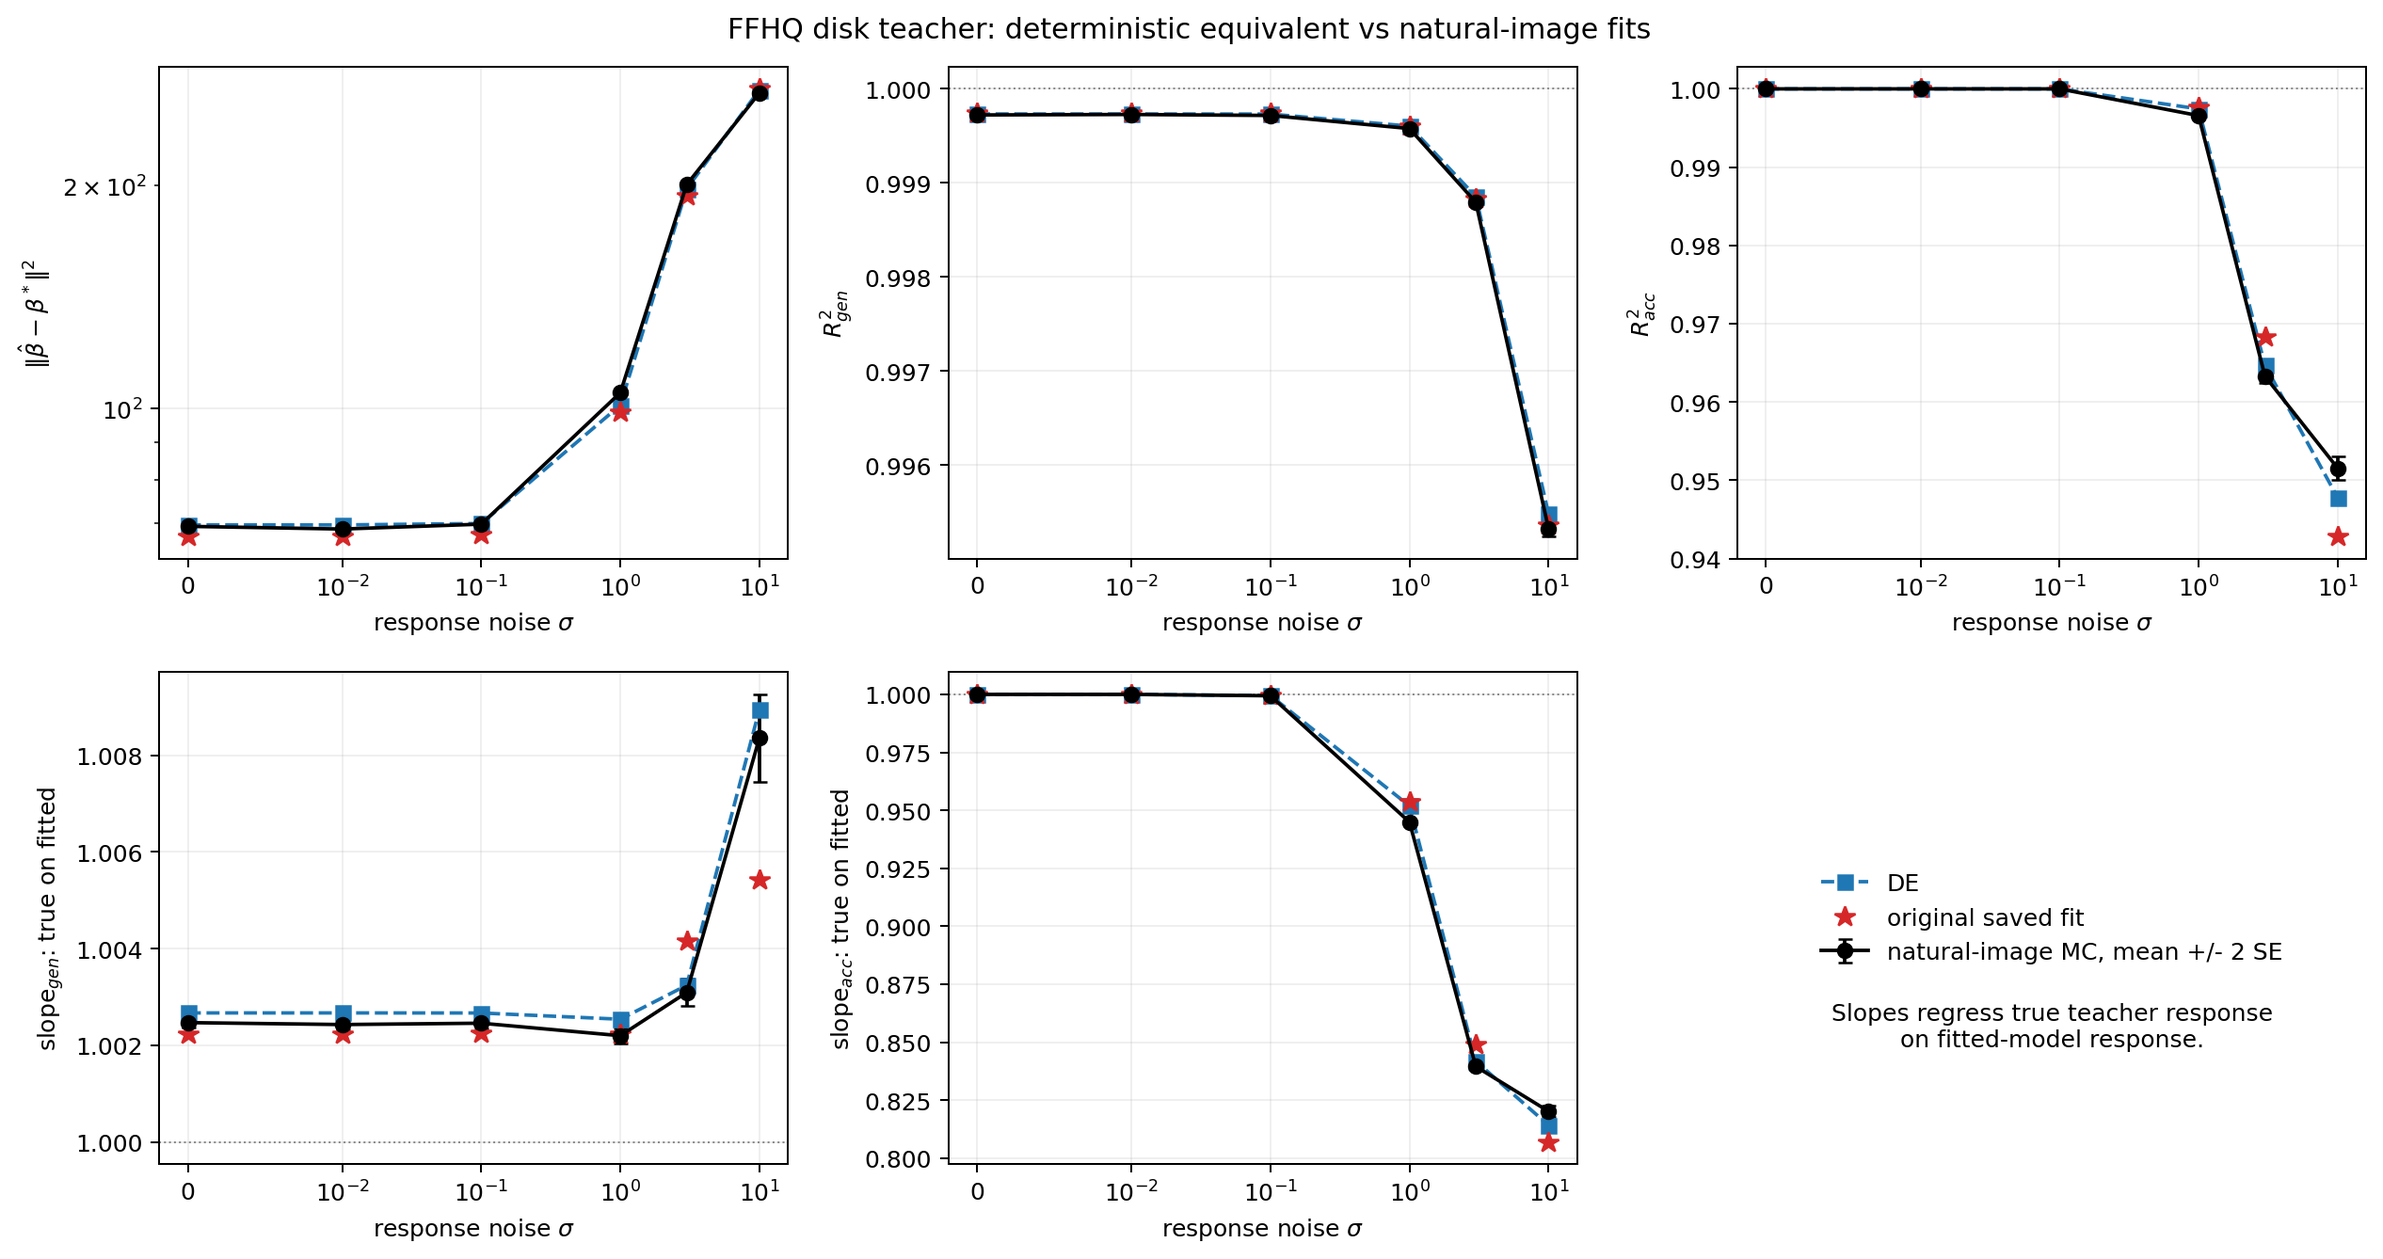
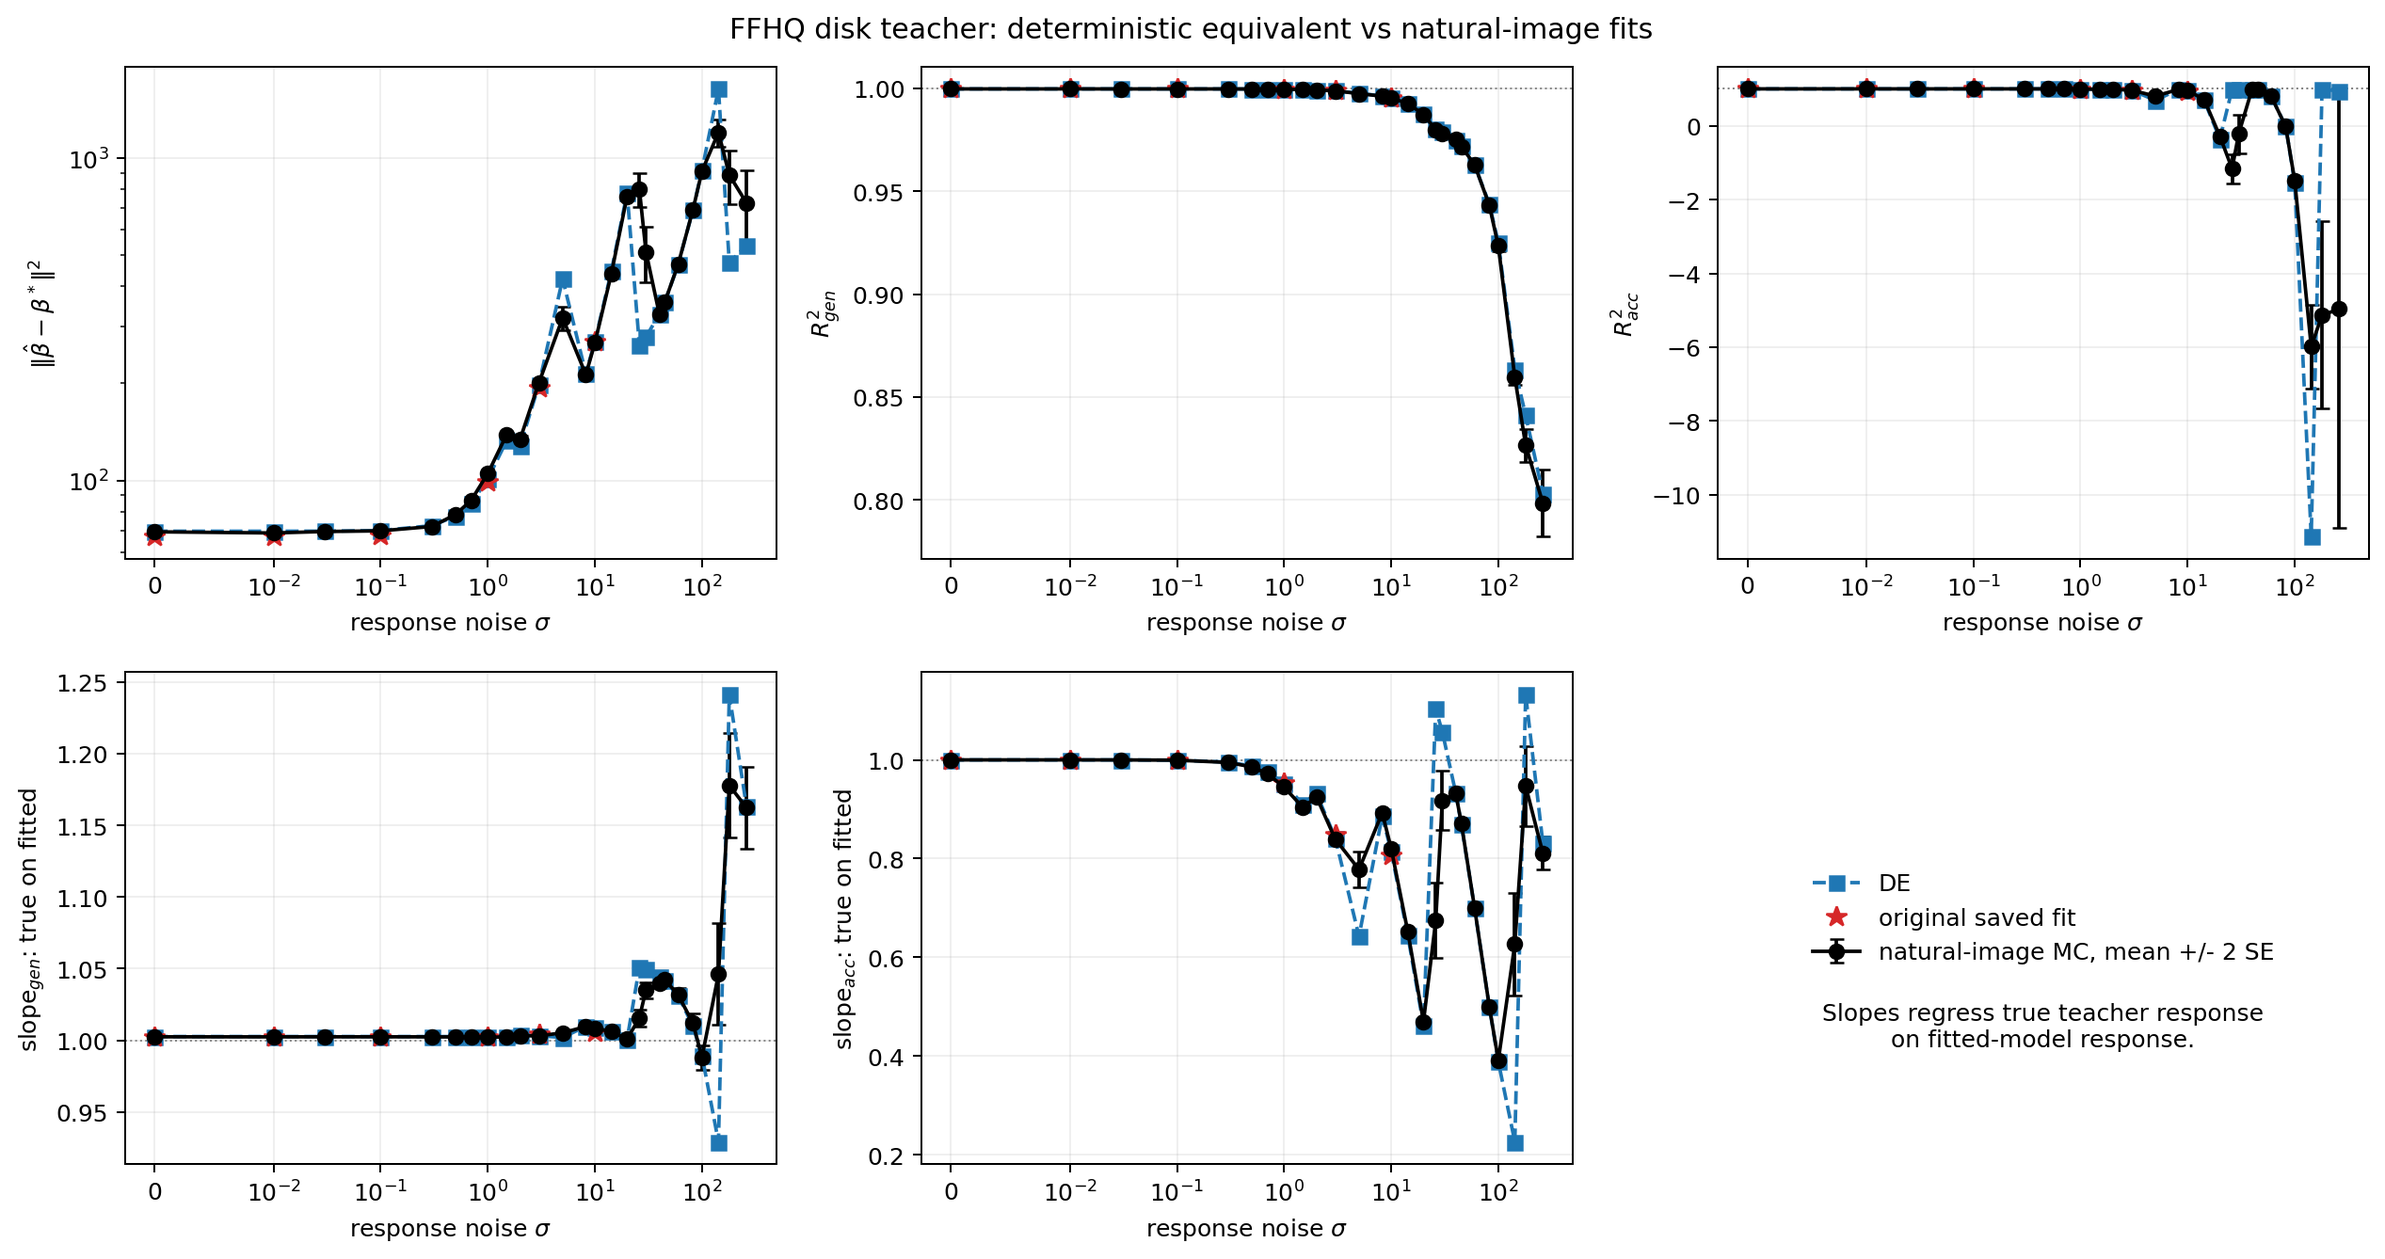
Extend FFHQ validation to high noise

diff --git a/scripts/validate_ffhq_disk_teacher.py b/scripts/validate_ffhq_disk_teacher.py
@@ -68,6 +68,11 @@ GAP_FIGURE_PATH = REPO_ROOT / 'figures' / 'ffhq_disk_teacher_gen_acc_gap.png'
 WEIGHT_FIGURE_PATH = REPO_ROOT / 'figures' / 'ffhq_disk_teacher_weights.png'
 SPECTRAL_FIGURE_PATH = REPO_ROOT / 'figures' / 'ffhq_disk_teacher_eigenbasis.png'
 DEFAULT_LOG_PATH = REPO_ROOT / 'logs' / 'ffhq_disk_teacher_de.log'
+DEFAULT_BASE_SIGMAS = np.asarray(
+    [0.0, 0.01, 0.03, 0.1, 0.3, 0.5, 0.7, 1.0, 1.5, 2.0, 3.0,
+     5.0, 10.0, 20.0, 30.0, 40.0, 60.0, 100.0, 180.0])
+DEFAULT_HIGH_NOISE_RATIOS = np.asarray(
+    [0.01, 0.03, 0.1, 0.3, 1.0, 3.0, 10.0])
 
 
 def create_disk_teacher(img_size: int = 100, radius: float = 0.3) -> np.ndarray:
@@ -409,6 +414,18 @@ def load_case(path: Path) -> tuple[dict[str, object], dict[str, np.ndarray]]:
     return row, arrays
 
 
+def add_distribution_quantiles(
+        row: dict[str, object], arrays: dict[str, np.ndarray]) -> None:
+    for metric in ['r2_acc', 'slope_gen', 'slope_acc']:
+        key = f'trial_{metric}'
+        if key not in arrays:
+            continue
+        values = arrays[key]
+        row[f'mc_{metric}_median'] = float(np.median(values))
+        row[f'mc_{metric}_q25'] = float(np.quantile(values, 0.25))
+        row[f'mc_{metric}_q75'] = float(np.quantile(values, 0.75))
+
+
 def write_summary(rows: list[dict[str, object]]) -> None:
     SUMMARY_PATH.parent.mkdir(parents=True, exist_ok=True)
     with SUMMARY_PATH.open('w', newline='') as handle:
@@ -424,6 +441,9 @@ def read_summary() -> list[dict[str, object]]:
         rows: list[dict[str, object]] = list(csv.DictReader(handle))
     for row in rows:
         for key, value in list(row.items()):
+            if value in (None, ''):
+                row[key] = np.nan
+                continue
             try:
                 row[key] = float(value)
             except (TypeError, ValueError):
@@ -508,11 +528,37 @@ def interpolated_crossing(x: np.ndarray, first: np.ndarray,
     return None
 
 
+def add_noise_ratio_axis(ax: plt.Axes, signal_power: float,
+                         max_sigma: float) -> None:
+    """Add a top x-axis for noise variance divided by signal variance."""
+    ratio_ticks = np.asarray(
+        [0.0, 1e-8, 1e-6, 1e-4, 1e-2, 0.1, 1.0, 10.0])
+    sigma_ticks = np.sqrt(ratio_ticks * signal_power)
+    visible = sigma_ticks <= max_sigma * 1.001
+    ratio_ticks = ratio_ticks[visible]
+    sigma_ticks = sigma_ticks[visible]
+    ratio_labels = [
+        '0' if value == 0 else rf'$10^{{{int(np.log10(value))}}}$'
+        if np.isclose(np.log10(value), round(np.log10(value)))
+        else f'{value:g}'
+        for value in ratio_ticks
+    ]
+    top = ax.twiny()
+    top.set_xscale('symlog', linthresh=0.01)
+    top.set_xlim(ax.get_xlim())
+    top.set_xticks(sigma_ticks)
+    top.set_xticklabels(ratio_labels)
+    top.set_xlabel(r'noise variance / signal variance  $\sigma^2/S$')
+    top.tick_params(axis='x', labelsize=7, pad=1)
+
+
 def plot_gen_acc_comparison(rows: list[dict[str, object]]) -> None:
     """Overlay natural-image and accentuation metrics to expose their gap."""
     rows = sorted(rows, key=lambda row: float(row['sigma']))
     sigma = np.asarray([float(row['sigma']) for row in rows])
-    fig, axes = plt.subplots(1, 3, figsize=(15.2, 4.4))
+    signal_power = float(rows[0]['theory_signal_power'])
+    fig, axes_grid = plt.subplots(2, 2, figsize=(11.8, 8.7))
+    axes = axes_grid.ravel()
 
     # Weight recovery remains as the shared reference panel.
     ax = axes[0]
@@ -533,9 +579,32 @@ def plot_gen_acc_comparison(rows: list[dict[str, object]]) -> None:
     ax.set_title('Weight recovery')
     ax.legend(fontsize=8)
 
+    # The decade-spaced CV grid creates visible phase transitions at high
+    # noise, so show the selected alpha beside the resulting metrics.
+    ax = axes[1]
+    mc_alpha_median = np.asarray(
+        [float(row['mc_alpha_cv_median']) for row in rows])
+    mc_alpha_q25 = np.asarray([float(row['mc_alpha_cv_q25']) for row in rows])
+    mc_alpha_q75 = np.asarray([float(row['mc_alpha_cv_q75']) for row in rows])
+    de_alpha = np.asarray([float(row['theory_alpha_cv']) for row in rows])
+    saved_alpha = np.asarray(
+        [float(row.get('historical_alpha_inferred', np.nan)) for row in rows])
+    ax.errorbar(
+        sigma, mc_alpha_median,
+        yerr=np.vstack((mc_alpha_median - mc_alpha_q25,
+                        mc_alpha_q75 - mc_alpha_median)),
+        fmt='o-', color='black', capsize=3, label='MC median / IQR')
+    ax.plot(sigma, de_alpha, 's--', color='C0', label='DE')
+    ax.plot(sigma, saved_alpha, '*', color='C3', ms=9,
+            label='original saved fit')
+    ax.set_yscale('log')
+    ax.set_ylabel(r'RidgeCV $\alpha=n\lambda$')
+    ax.set_title('Cross-validated regularization')
+    ax.legend(fontsize=8)
+
     comparison_specs = [
-        (axes[1], 'r2', r'$R^2$', r'$R^2_{gen}$ vs $R^2_{acc}$'),
-        (axes[2], 'slope', 'true-on-fitted slope',
+        (axes[2], 'r2', r'$R^2$', r'$R^2_{gen}$ vs $R^2_{acc}$'),
+        (axes[3], 'slope', 'true-on-fitted slope',
          r'slope$_{gen}$ vs slope$_{acc}$'),
     ]
     path_colors = {'gen': 'C0', 'acc': 'C1'}
@@ -566,18 +635,60 @@ def plot_gen_acc_comparison(rows: list[dict[str, object]]) -> None:
         ax.set_ylabel(ylabel)
         ax.set_title(title)
 
+    mc_r2_acc_median = np.asarray(
+        [float(row['mc_r2_acc_median']) for row in rows])
+    mc_r2_acc_q25 = np.asarray(
+        [float(row['mc_r2_acc_q25']) for row in rows])
+    mc_r2_acc_q75 = np.asarray(
+        [float(row['mc_r2_acc_q75']) for row in rows])
+    axes[2].fill_between(
+        sigma, mc_r2_acc_q25, mc_r2_acc_q75, color='C1', alpha=0.10,
+        zorder=0)
+    axes[2].plot(
+        sigma, mc_r2_acc_median, '^:', color='C1', ms=4, lw=1.2,
+        zorder=4)
+
     crossing = interpolated_crossing(
         sigma, np.asarray([float(row['mc_r2_gen']) for row in rows]),
         np.asarray([float(row['mc_r2_acc']) for row in rows]))
     if crossing is not None:
         crossing_x, crossing_y = crossing
-        axes[1].axvline(crossing_x, color='0.35', lw=0.9, ls=':')
-        axes[1].plot(crossing_x, crossing_y, 'D', color='0.25', ms=5, zorder=5)
-        axes[1].annotate(
-            rf'MC crossing $\sigma\approx{crossing_x:.2f}$',
-            xy=(crossing_x, crossing_y), xytext=(8, -28),
-            textcoords='offset points', fontsize=8,
-            arrowprops={'arrowstyle': '-', 'color': '0.35', 'lw': 0.8})
+        axes[2].axvline(crossing_x, color='0.35', lw=0.9, ls=':')
+        axes[2].plot(crossing_x, crossing_y, 'D', color='0.25', ms=5, zorder=5)
+
+    # The full high-noise range sends R²_acc far below zero.  Retain that main
+    # axis while adding a low-noise inset where the first crossing is legible.
+    inset = axes[2].inset_axes([0.48, 0.51, 0.49, 0.43])
+    for path_name in ['gen', 'acc']:
+        color = path_colors[path_name]
+        mc_key = f'mc_r2_{path_name}'
+        theory_key = f'theory_r2_{path_name}'
+        history_key = ('historical_r2_gen_population'
+                       if path_name == 'gen' else 'historical_r2_acc')
+        mc = np.asarray([float(row[mc_key]) for row in rows])
+        theory = np.asarray([float(row[theory_key]) for row in rows])
+        historical = np.asarray(
+            [float(row.get(history_key, np.nan)) for row in rows])
+        inset.plot(sigma, mc, 'o-', color=color, ms=3, lw=1)
+        inset.plot(sigma, theory, 's--', color=color, ms=3, lw=1)
+        inset.plot(sigma, historical, '*', color=color, ms=5)
+    inset.plot(
+        sigma, mc_r2_acc_median, '^:', color='C1', ms=2.5, lw=0.8)
+    inset.axhline(1.0, color='0.5', lw=0.6, ls=':')
+    inset.set_xscale('log')
+    inset.set_xlim(0.1, 3.2)
+    inset.set_ylim(0.955, 1.0005)
+    inset.set_xticks([0.1, 0.3, 1.0, 3.0])
+    inset.set_xticklabels(['0.1', '0.3', '1', '3'])
+    inset.tick_params(labelsize=6)
+    inset.grid(alpha=0.15)
+    inset.set_title('low-noise crossing', fontsize=7)
+    if crossing is not None:
+        inset.axvline(crossing_x, color='0.35', lw=0.7, ls=':')
+        inset.plot(crossing_x, crossing_y, 'D', color='0.25', ms=3)
+        inset.text(
+            crossing_x * 1.12, 0.957,
+            rf'$\sigma\approx{crossing_x:.2f}$', fontsize=6)
 
     path_handles = [
         Line2D([0], [0], color='C0', lw=2, label='generalization'),
@@ -591,18 +702,23 @@ def plot_gen_acc_comparison(rows: list[dict[str, object]]) -> None:
         Line2D([0], [0], color='0.25', marker='*', ms=9, lw=0,
                label='original saved fit'),
     ]
-    path_legend = axes[1].legend(handles=path_handles, loc='lower left',
+    median_handle = Line2D(
+        [0], [0], color='C1', marker='^', lw=1.2, ls=':',
+        label=r'MC median $R^2_{acc}$ / IQR')
+    path_legend = axes[2].legend(
+        handles=path_handles + [median_handle], loc='lower left',
                                  fontsize=8)
-    axes[1].add_artist(path_legend)
-    axes[2].legend(handles=path_handles + source_handles, loc='lower left',
+    axes[2].add_artist(path_legend)
+    axes[3].legend(handles=path_handles + source_handles, loc='lower left',
                    fontsize=8, ncol=2)
     for ax in axes:
         ax.set_xscale('symlog', linthresh=0.01)
         ax.set_xlim(0, max(sigma) * 1.15)
         ax.set_xlabel(r'response noise $\sigma$')
         ax.grid(alpha=0.2)
+        add_noise_ratio_axis(ax, signal_power, max(sigma) * 1.15)
     fig.suptitle('FFHQ disk teacher: generalization--accentuation gap')
-    fig.tight_layout()
+    fig.tight_layout(rect=(0, 0, 1, 0.95), h_pad=2.5)
     GAP_FIGURE_PATH.parent.mkdir(parents=True, exist_ok=True)
     fig.savefig(GAP_FIGURE_PATH, dpi=180, bbox_inches='tight')
     GAP_FIGURE_PATH.chmod(0o644)
@@ -705,6 +821,7 @@ def render_all(rows: list[dict[str, object]], img_size: int) -> None:
     for row in rows:
         sigma = float(row['sigma'])
         _, arrays = load_case(Path(str(row['case_path'])))
+        add_distribution_quantiles(row, arrays)
         cases[sigma] = arrays
     plot_metrics(rows)
     plot_gen_acc_comparison(rows)
@@ -720,7 +837,9 @@ def parse_args() -> argparse.Namespace:
     parser.add_argument('--train-pool-size', type=int, default=10000)
     parser.add_argument('--population-size', type=int, default=20000)
     parser.add_argument('--sigmas', type=float, nargs='+',
-                        default=[0.0, 0.01, 0.1, 1.0, 3.0, 10.0])
+                        default=None,
+                        help='Explicit response-noise SDs. By default, combine '
+                             'a low-noise grid with NSR targets through 10.')
     parser.add_argument('--n-trials', type=int, default=100)
     parser.add_argument('--benchmark-trials', type=int, default=3)
     parser.add_argument('--seed', type=int, default=20260814)
@@ -768,6 +887,13 @@ def main() -> None:
     signal_power = float((eigval * beta_proj_t.square()).sum())
     logger.info('Disk teacher: norm²=%.1f, population signal power=%.6g',
                 float(beta @ beta), signal_power)
+    if args.sigmas is None:
+        ratio_sigmas = np.sqrt(DEFAULT_HIGH_NOISE_RATIOS * signal_power)
+        args.sigmas = sorted(np.unique(np.concatenate(
+            [DEFAULT_BASE_SIGMAS, ratio_sigmas])).tolist())
+        logger.info(
+            'Default sigma curve has %d points through sigma=%.3g (NSR=10)',
+            len(args.sigmas), max(args.sigmas))
 
     train_pool = torch.from_numpy(
         np.asarray(staged[:args.train_pool_size], dtype=np.float32)).to(device)
@@ -801,7 +927,10 @@ def main() -> None:
         cache = case_path(args, sigma)
         if cache.exists() and not args.force:
             logger.info('[%d/%d] Loading %s', case_index, len(args.sigmas), cache)
-            row, _ = load_case(cache)
+            row, arrays = load_case(cache)
+            row['noise_signal_ratio'] = (
+                sigma ** 2 / float(row['theory_signal_power']))
+            add_distribution_quantiles(row, arrays)
             rows.append(row)
             continue
 
@@ -856,6 +985,7 @@ def main() -> None:
             'seed': args.seed,
             'case_path': str(cache),
             'mc_elapsed_seconds': elapsed,
+            'noise_signal_ratio': sigma ** 2 / signal_power,
         }
         row.update(theoretical)
         for name, values in trials.items():
@@ -894,6 +1024,7 @@ def main() -> None:
             'de_cv_risk_path': de_risk_path,
             'alpha_grid': alphas_np,
         }
+        add_distribution_quantiles(row, arrays)
         save_case(cache, row, **arrays)
         rows.append(row)
         logger.info(

diff --git a/tests/test_r2_metrics.py b/tests/test_r2_metrics.py
@@ -19,7 +19,11 @@ from rmt_core.simulation_lib import (
     run_paired_cv_monte_carlo,
 )
 from rmt_core.teacher_lib import make_spectral_teacher
-from scripts.validate_ffhq_disk_teacher import fit_metrics, ridge_loocv_fit
+from scripts.validate_ffhq_disk_teacher import (
+    fit_metrics,
+    interpolated_crossing,
+    ridge_loocv_fit,
+)
 
 
 def test_generalization_metrics_use_natural_signal_variance():
@@ -227,3 +231,14 @@ def test_ffhq_evaluation_slopes_use_true_on_fitted_orientation():
     expected_acc = float((weight * beta).sum() / weight.square().sum())
     assert np.isclose(metrics['slope_gen'], expected_gen)
     assert np.isclose(metrics['slope_acc'], expected_acc)
+
+
+def test_crossing_interpolation_uses_log_noise_axis():
+    crossing = interpolated_crossing(
+        np.array([0.1, 1.0]), np.array([0.0, 1.0]),
+        np.array([0.2, 0.8]))
+
+    assert crossing is not None
+    crossing_x, crossing_y = crossing
+    assert np.isclose(crossing_x, np.sqrt(0.1))
+    assert np.isclose(crossing_y, 0.5)

diff --git a/REPORT.md b/REPORT.md
@@ -684,6 +684,32 @@ rather than subtracting two nearly equal vectors `y-Hy`, makes the selector
 agree with scikit-learn on the original FFHQ design. A regression test now
 compares this stable path with brute-force leave-one-out fits.
 
+### High-noise extension
+
+The cached sweep now contains 26 noise levels and reaches exact population
+noise/signal variance ratios `sigma²/S` of 0.1, 1, and 10, where
+`S=6778.3`. Every condition uses 100 actual natural-image RidgeCV fits. The
+comparison figure has synchronized axes: response-noise SD `sigma` below and
+noise/signal variance ratio above. It also shows the decade-spaced selected
+alpha, which explains the nonmonotone transitions in weight and accentuation
+metrics.
+
+| sigma²/S | sigma | alpha DE / MC median [IQR] | R²_gen DE / MC | slope_acc DE / MC | R²_acc DE / MC mean (median) |
+|---:|---:|---:|---:|---:|---:|
+| 0.1 | 26.04 | 1000 / 100 [100,1000] | 0.980 / 0.980 | 1.103 / 0.675 | 0.991 / -1.164 (-2.344) |
+| 1 | 82.33 | 1000 / 1000 [1000,1000] | 0.944 / 0.943 | 0.501 / 0.501 | -0.011 / -0.017 (-0.007) |
+| 10 | 260.35 | 10000 / 10000 [10000,10000] | 0.803 / 0.798 | 0.832 / 0.811 | 0.947 / -4.966 (0.969) |
+
+Generalization remains well predicted across this extreme range. Own-path R²
+requires more care. At ratio 0.1 the empirical CV argmin is split across two
+adjacent decade-grid penalties, while the leading DE chooses only one; this
+produces a large discrepancy. At ratio 10, the DE and mean slope remain close,
+and the DE is close to the median own-path R², but rare near-singular alignment
+ratios make the empirical *mean* R² strongly negative. Thus the first-order DE
+continues to predict typical calibration but no longer predicts the heavy-tail
+mean of the nonlinear own-path R². The plot includes both MC mean with standard
+error and MC median with IQR to make this distinction explicit.
+
 ---
 
 ## How to reproduce

diff --git a/README.md b/README.md
@@ -84,6 +84,8 @@ python scripts/validate_powerlaw_teacher_alignment.py
 python scripts/validate_powerlaw_teacher_alignment.py --plot-only
 
 # Reproduce the 100x100 FFHQ unit-disk teacher experiment on a CUDA GPU.
+# The default 26-point curve reaches noise/signal variance ratio 10; figures
+# show response-noise SD on the lower x-axis and variance ratio on the upper.
 # The script benchmarks first, stages the image archive locally, and caches cases.
 python scripts/validate_ffhq_disk_teacher.py
 
